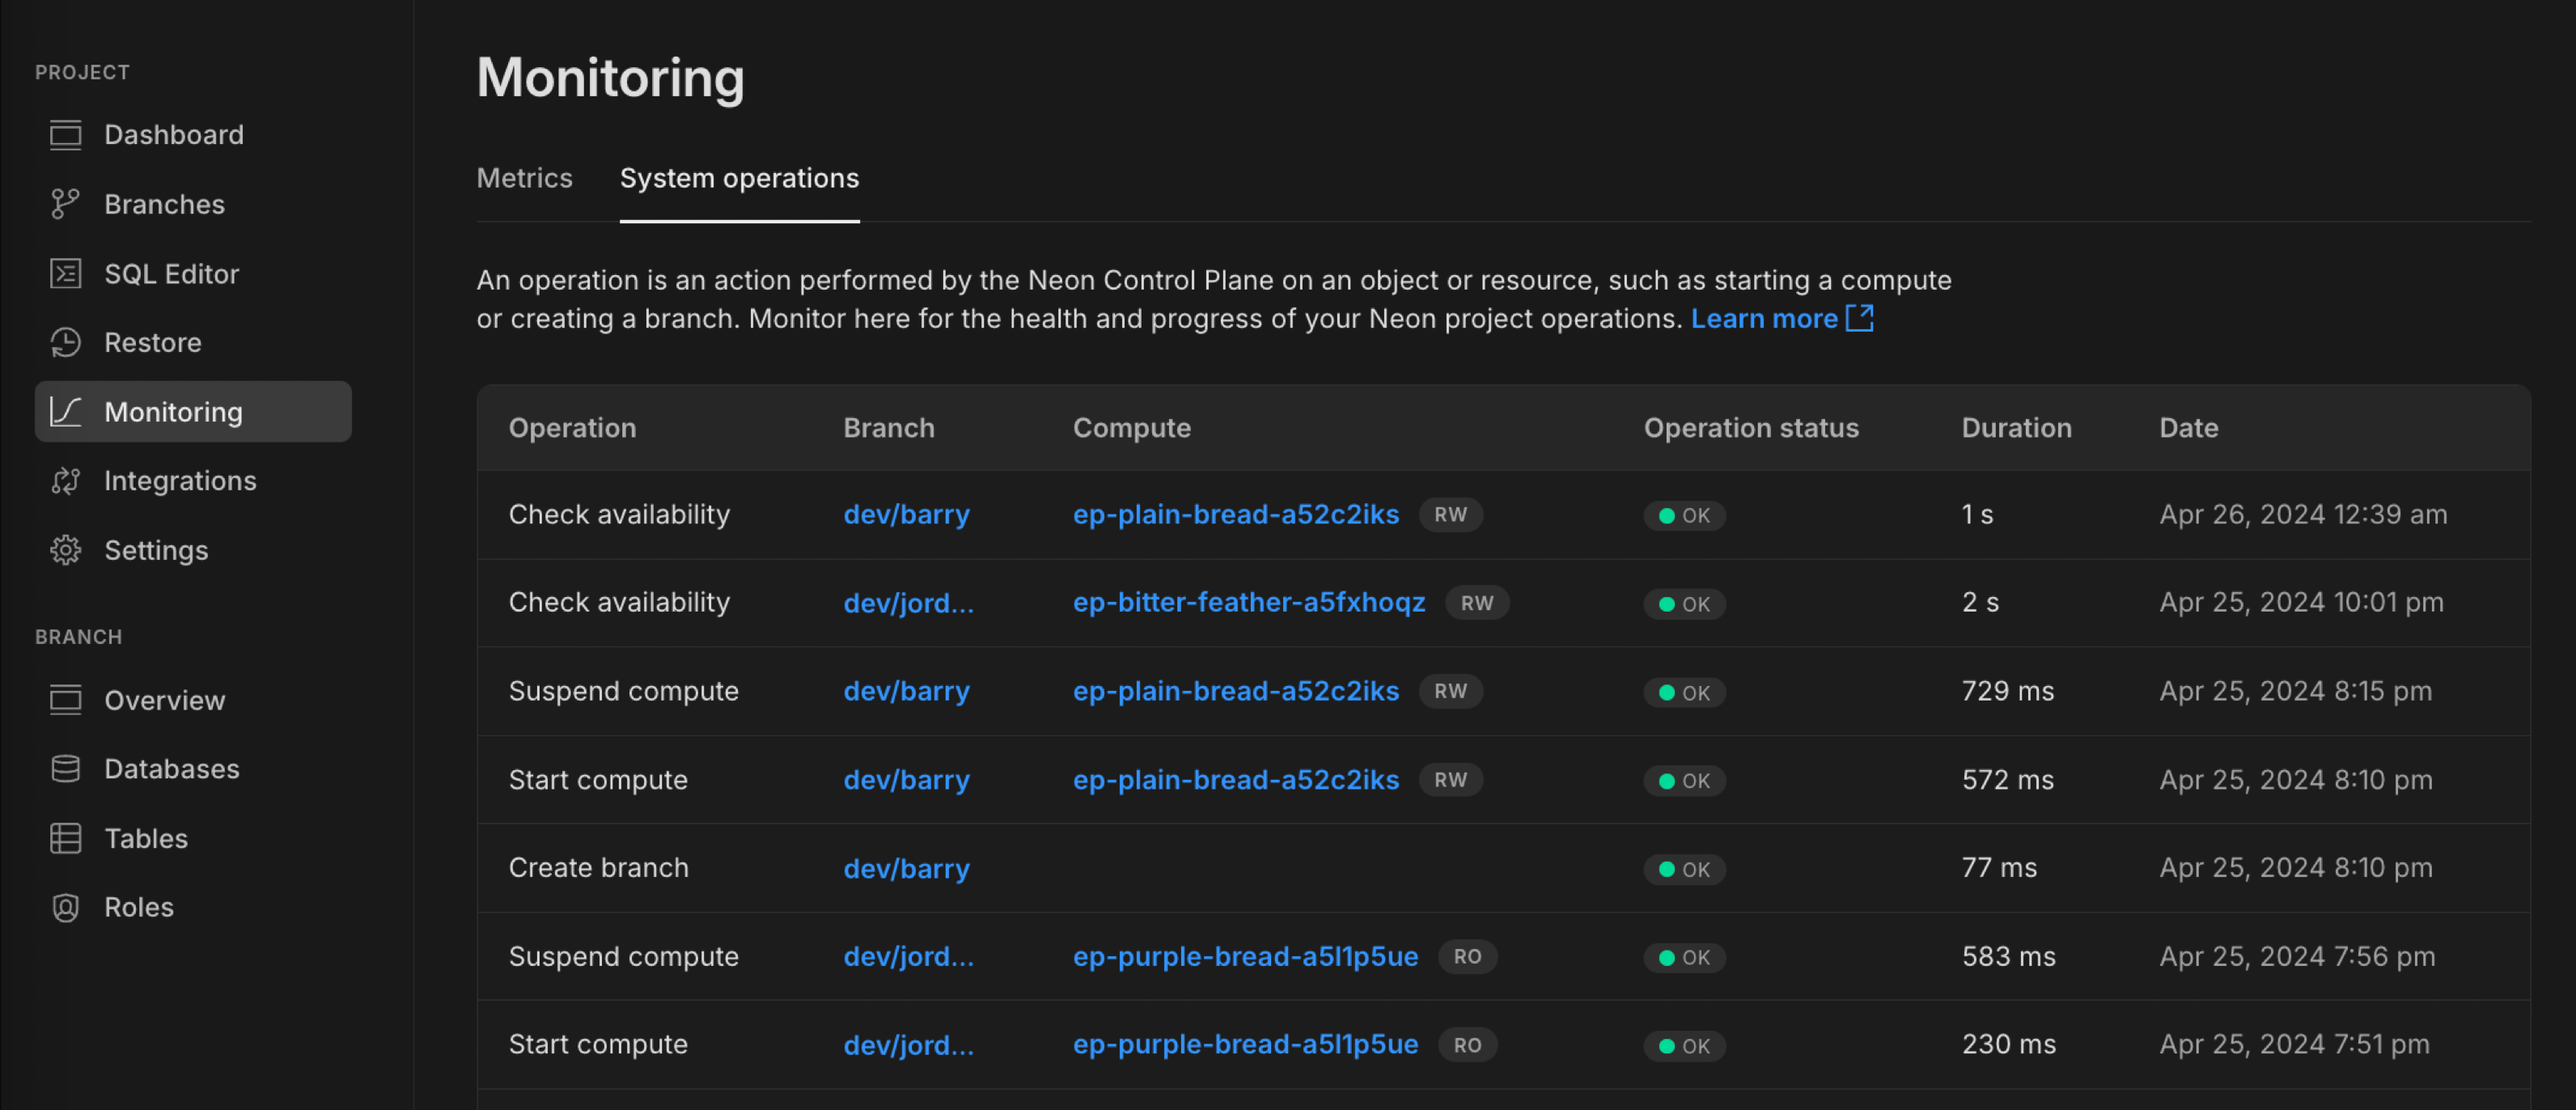
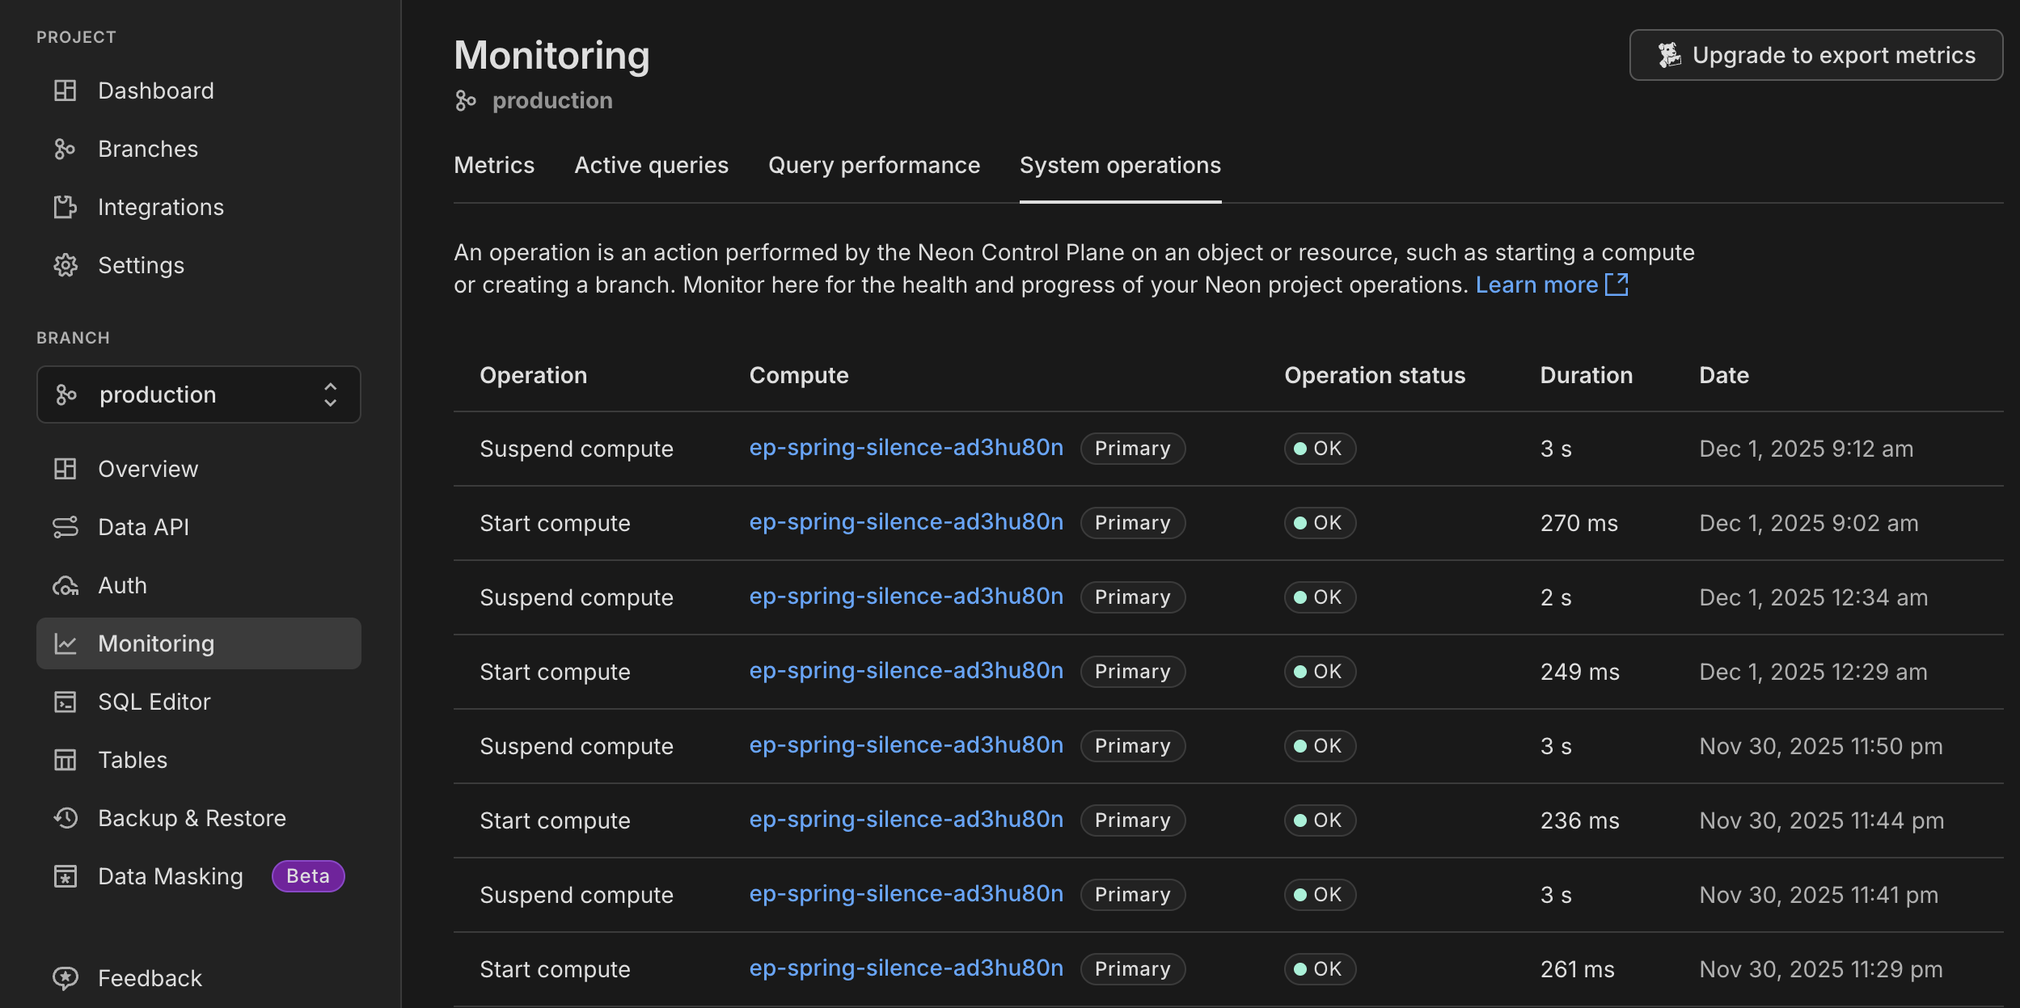
docs: update system operations

diff --git a/content/guides/strapi-cms.md b/content/guides/strapi-cms.md
@@ -36,7 +36,7 @@ To get started, go to the [Neon console](https://console.neon.tech/app/projects)
 
 You will then be presented with a dialog that provides a connection string of your database. Enable the **Connection pooling** toggle for a pooled connection string.
 
-![Neon Connection Details](/guides/images/strapi-cms/20b94d5f-aff4-4594-b60b-3a65d4fc884c.png)
+![Neon Connection Details](/docs/connect/connection_details.png)
 
 All Neon connection strings have the following format:
 
@@ -320,9 +320,11 @@ npm run build && npm run preview
 
 ## Scale-to-zero with Postgres (powered by Neon)
 
-Interestingly, during the entire process of building this application, you have used Neon's **Scale-to-zero** feature which places your Postgres compute endpoint into an idle state after 5 minutes of inactivity. Click the **Operations** button in your Neon console sidebar to see when the compute was started and automatically suspended to reduce compute usage.
+Interestingly, during the entire process of building this application, you have used Neon's **Scale-to-zero** feature which places your Postgres compute endpoint into an idle state after 5 minutes of inactivity.
 
-![Neon Monitoring page](/guides/images/strapi-cms/ee753f7d-3da8-4a4c-84c5-be7b6cdce486.png)
+Click on the **Monitoring** button in the Neon Console sidebar, then open **System operations** to see when the compute was started and automatically suspended to reduce usage.
+
+![Neon Monitoring page](/docs/changelog/operations_monitoring.png)
 
 ## Summary
 

diff --git a/content/docs/manage/operations.md b/content/docs/manage/operations.md
@@ -31,14 +31,13 @@ You can view system operations via the Neon Console, [Neon CLI](/docs/reference/
 
 <TabItem>
 
-You can view system operations via the **Monitoring** page in the Neon Console.
+To view system operations for a specific branch, open the **Monitoring** page in the Neon Console. Select the desired branch from the left-hand sidebar, and the console will display the corresponding system operations.
 
 ![System operations](/docs/changelog/operations_monitoring.png)
 
 Operation details include:
 
 - **Operation**: The action performed by the operation.
-- **Branch**: The branch on which the operation was performed.
 - **Compute**: The compute on which the operation occurred.
 - **Operation status**: The status of the operation.
 - **Duration**: The duration of the operation.
